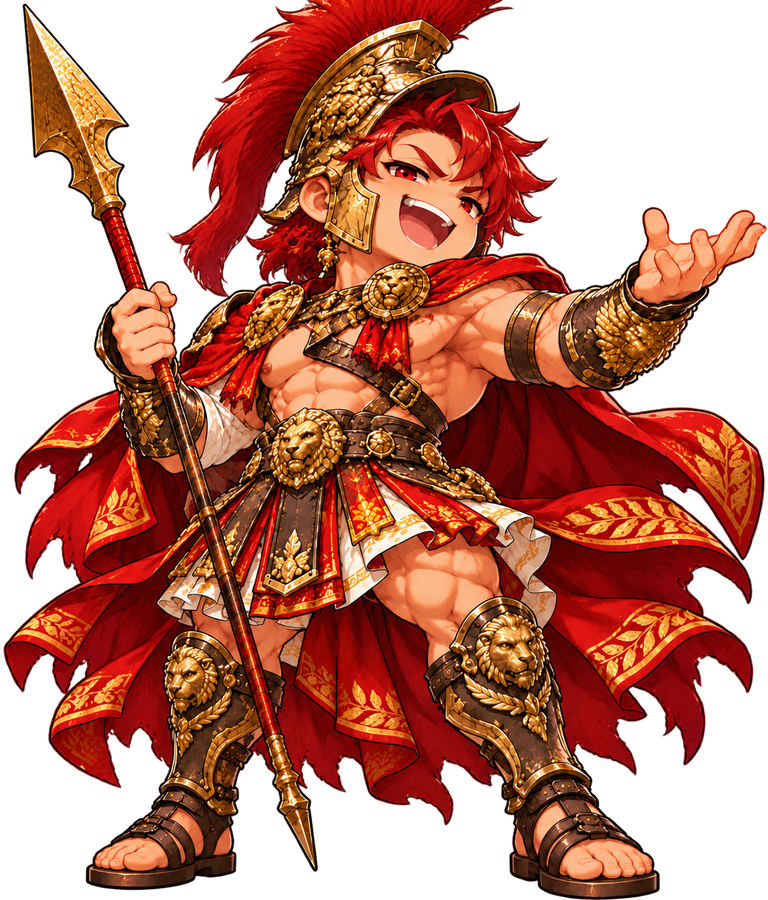
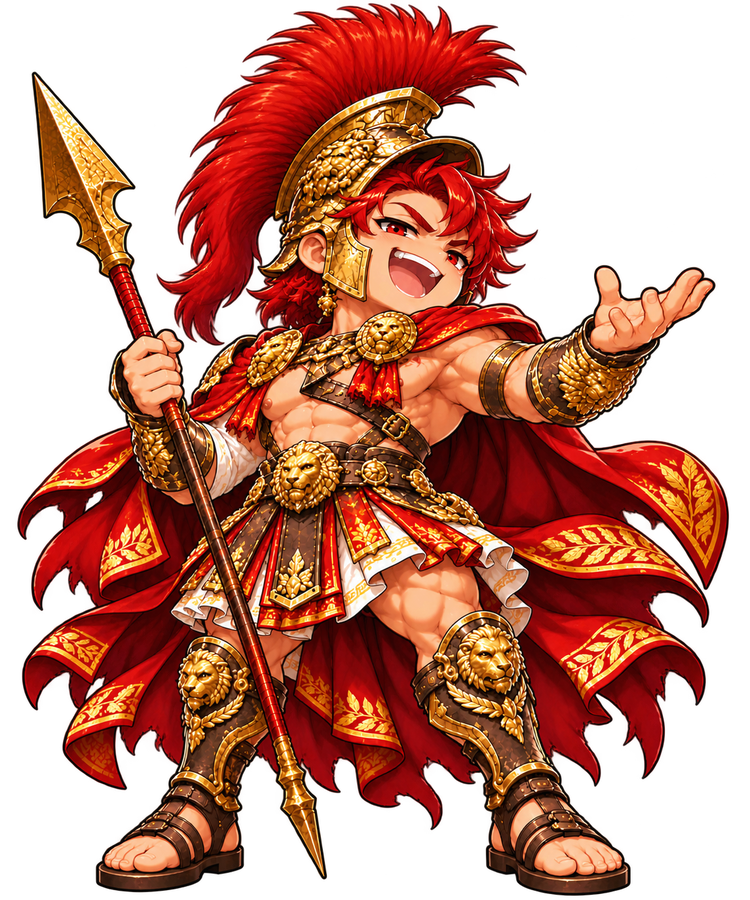
ストーリー: スパルの絵を差し替え(上部が切れていたのを直した版)(Ver.1.412)

diff --git a/index.html b/index.html
@@ -41,7 +41,7 @@
        取得させる効果は無かった(iPad Safariがそれらをキャッシュしたまま使い続けていたと判明) --
        今後はこの番号と合わせて、下の全<script src>/<link>に付けた?v=X.XXXクエリ文字列も必ず
        同じ値に更新すること(実際にURLを変えることでキャッシュを回避する、こちらが本体)。 -->
-  <div id="copyright-notice">© 2026 higebucho Ver.1.411</div>
+  <div id="copyright-notice">© 2026 higebucho Ver.1.412</div>
 
   <!-- 入口バナー (2026-10-04, per user request: "HPに入ったときに大き目バナーを用意して導線をわかりやすく
        したい") -- #app/#weekly-seat-pickerと同じ「画面を丸ごと差し替える」パターン(main.jsのrender()
